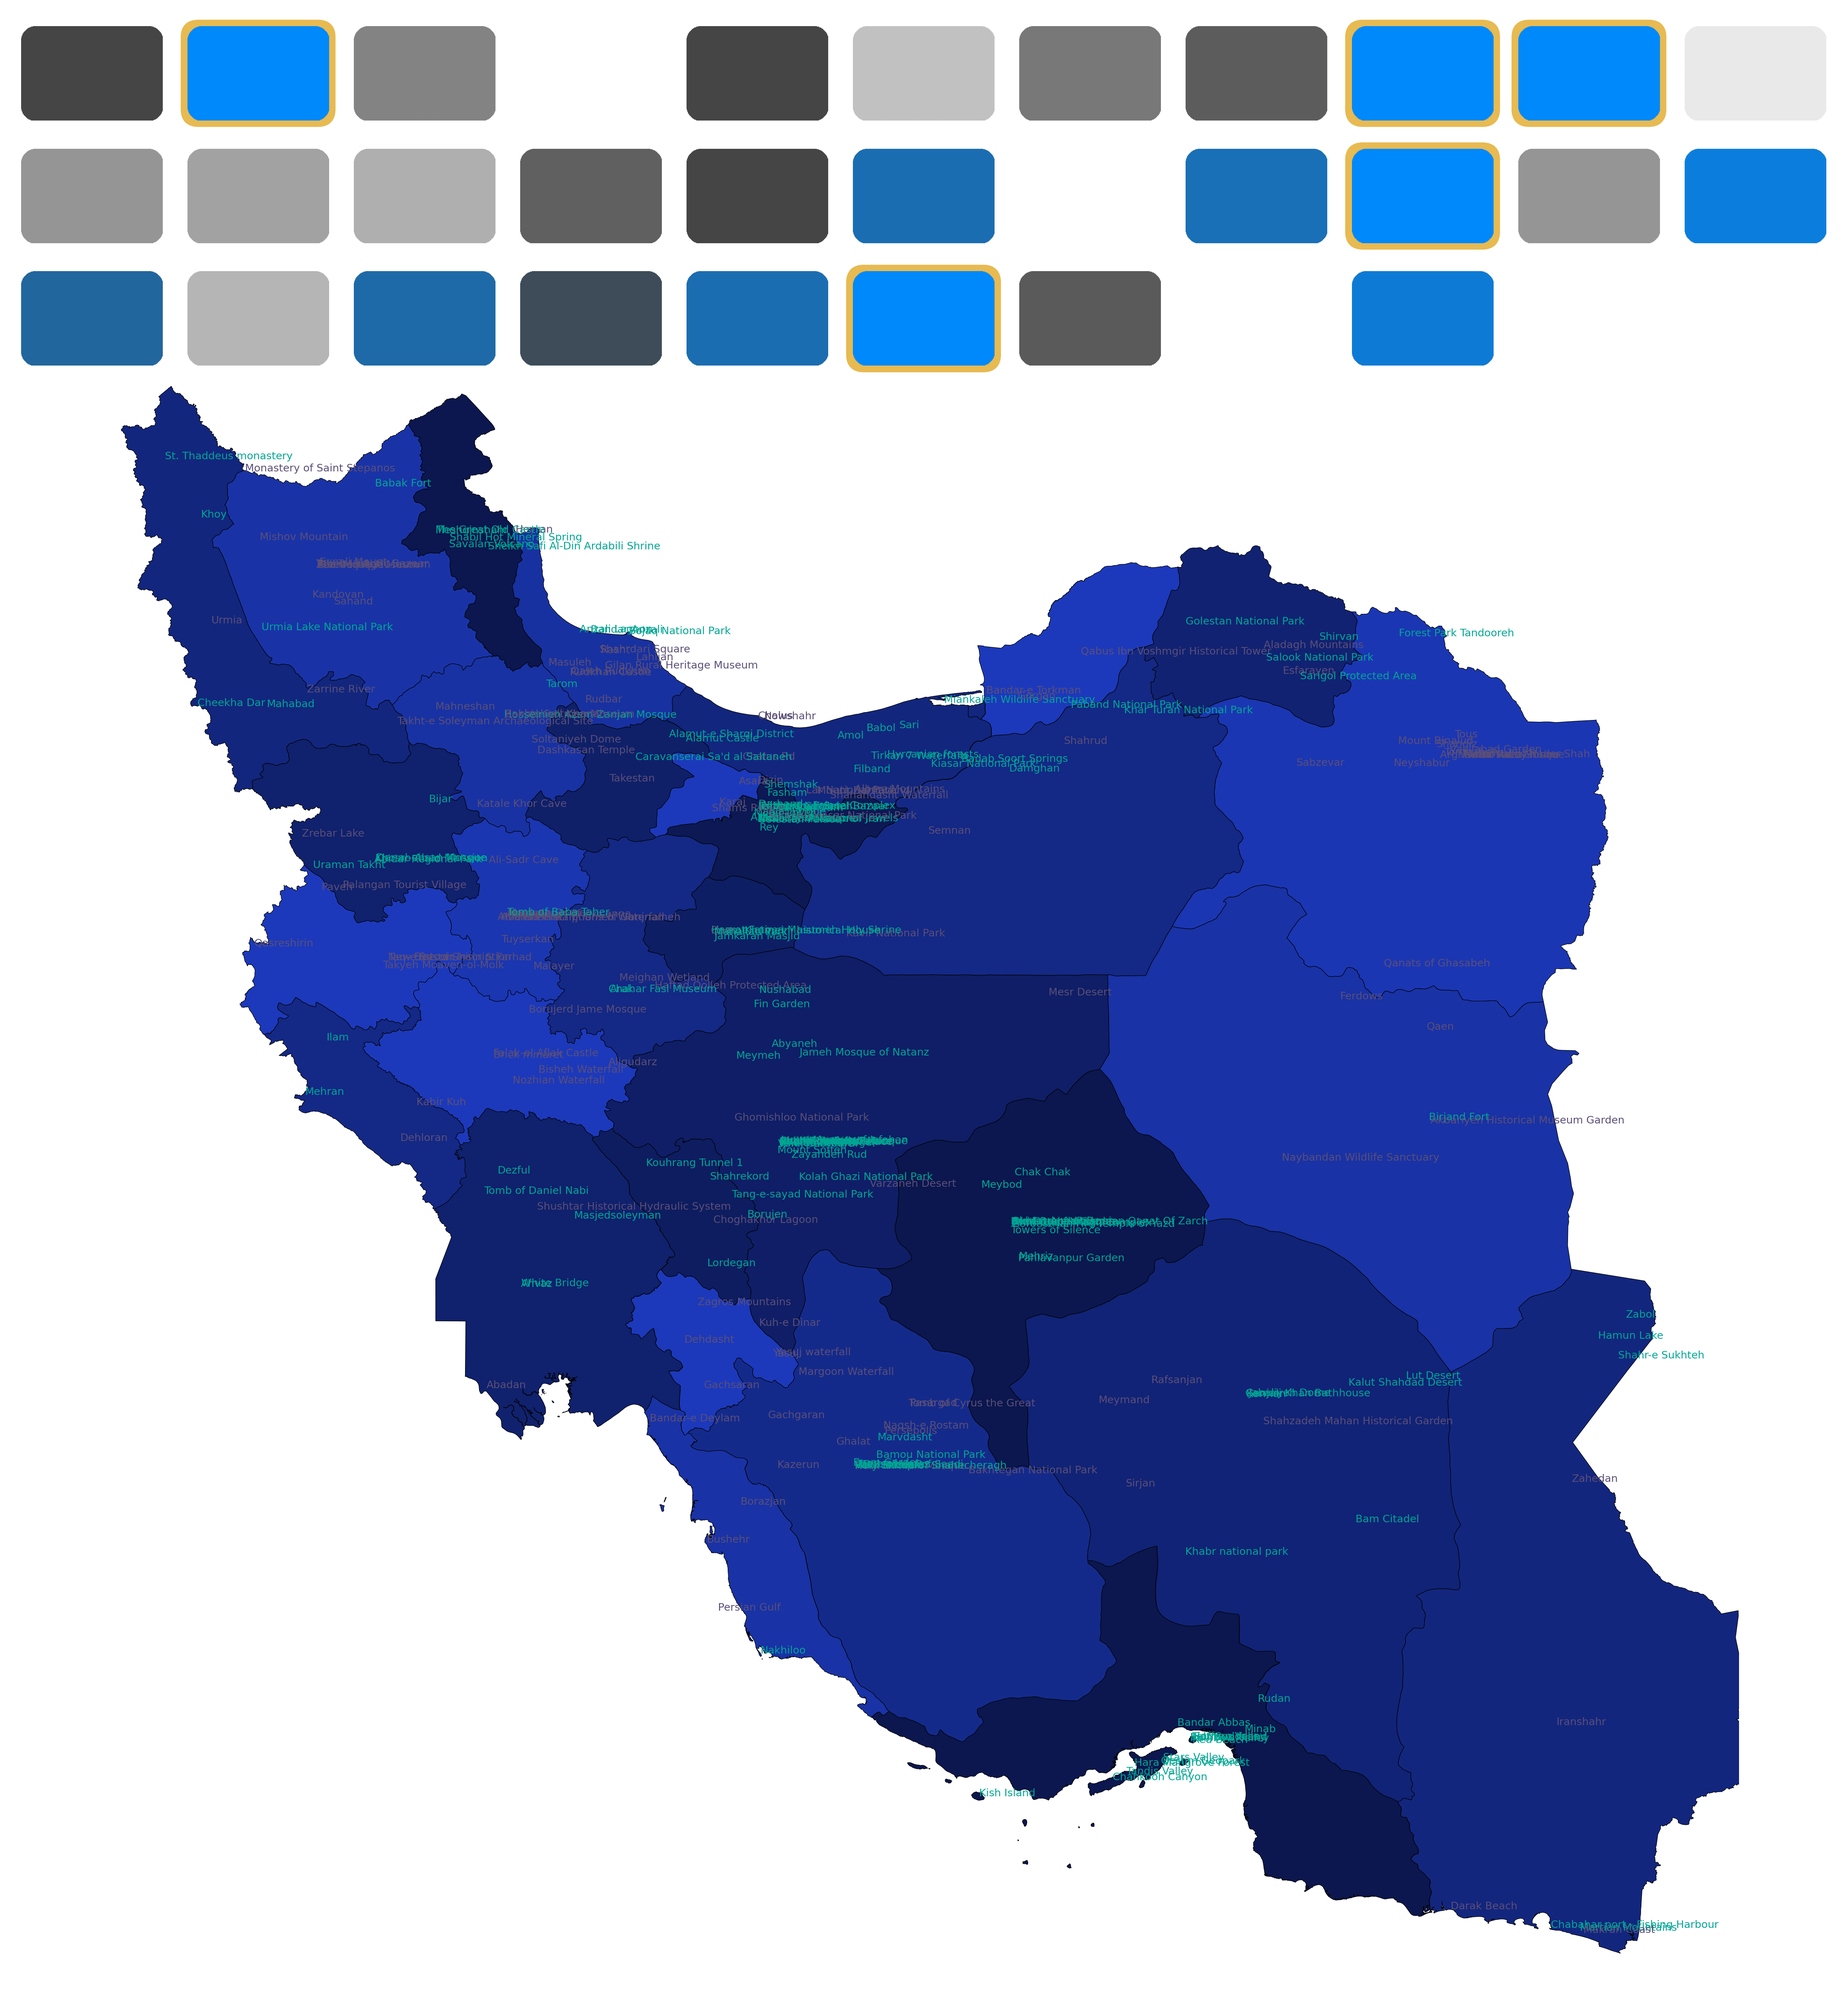
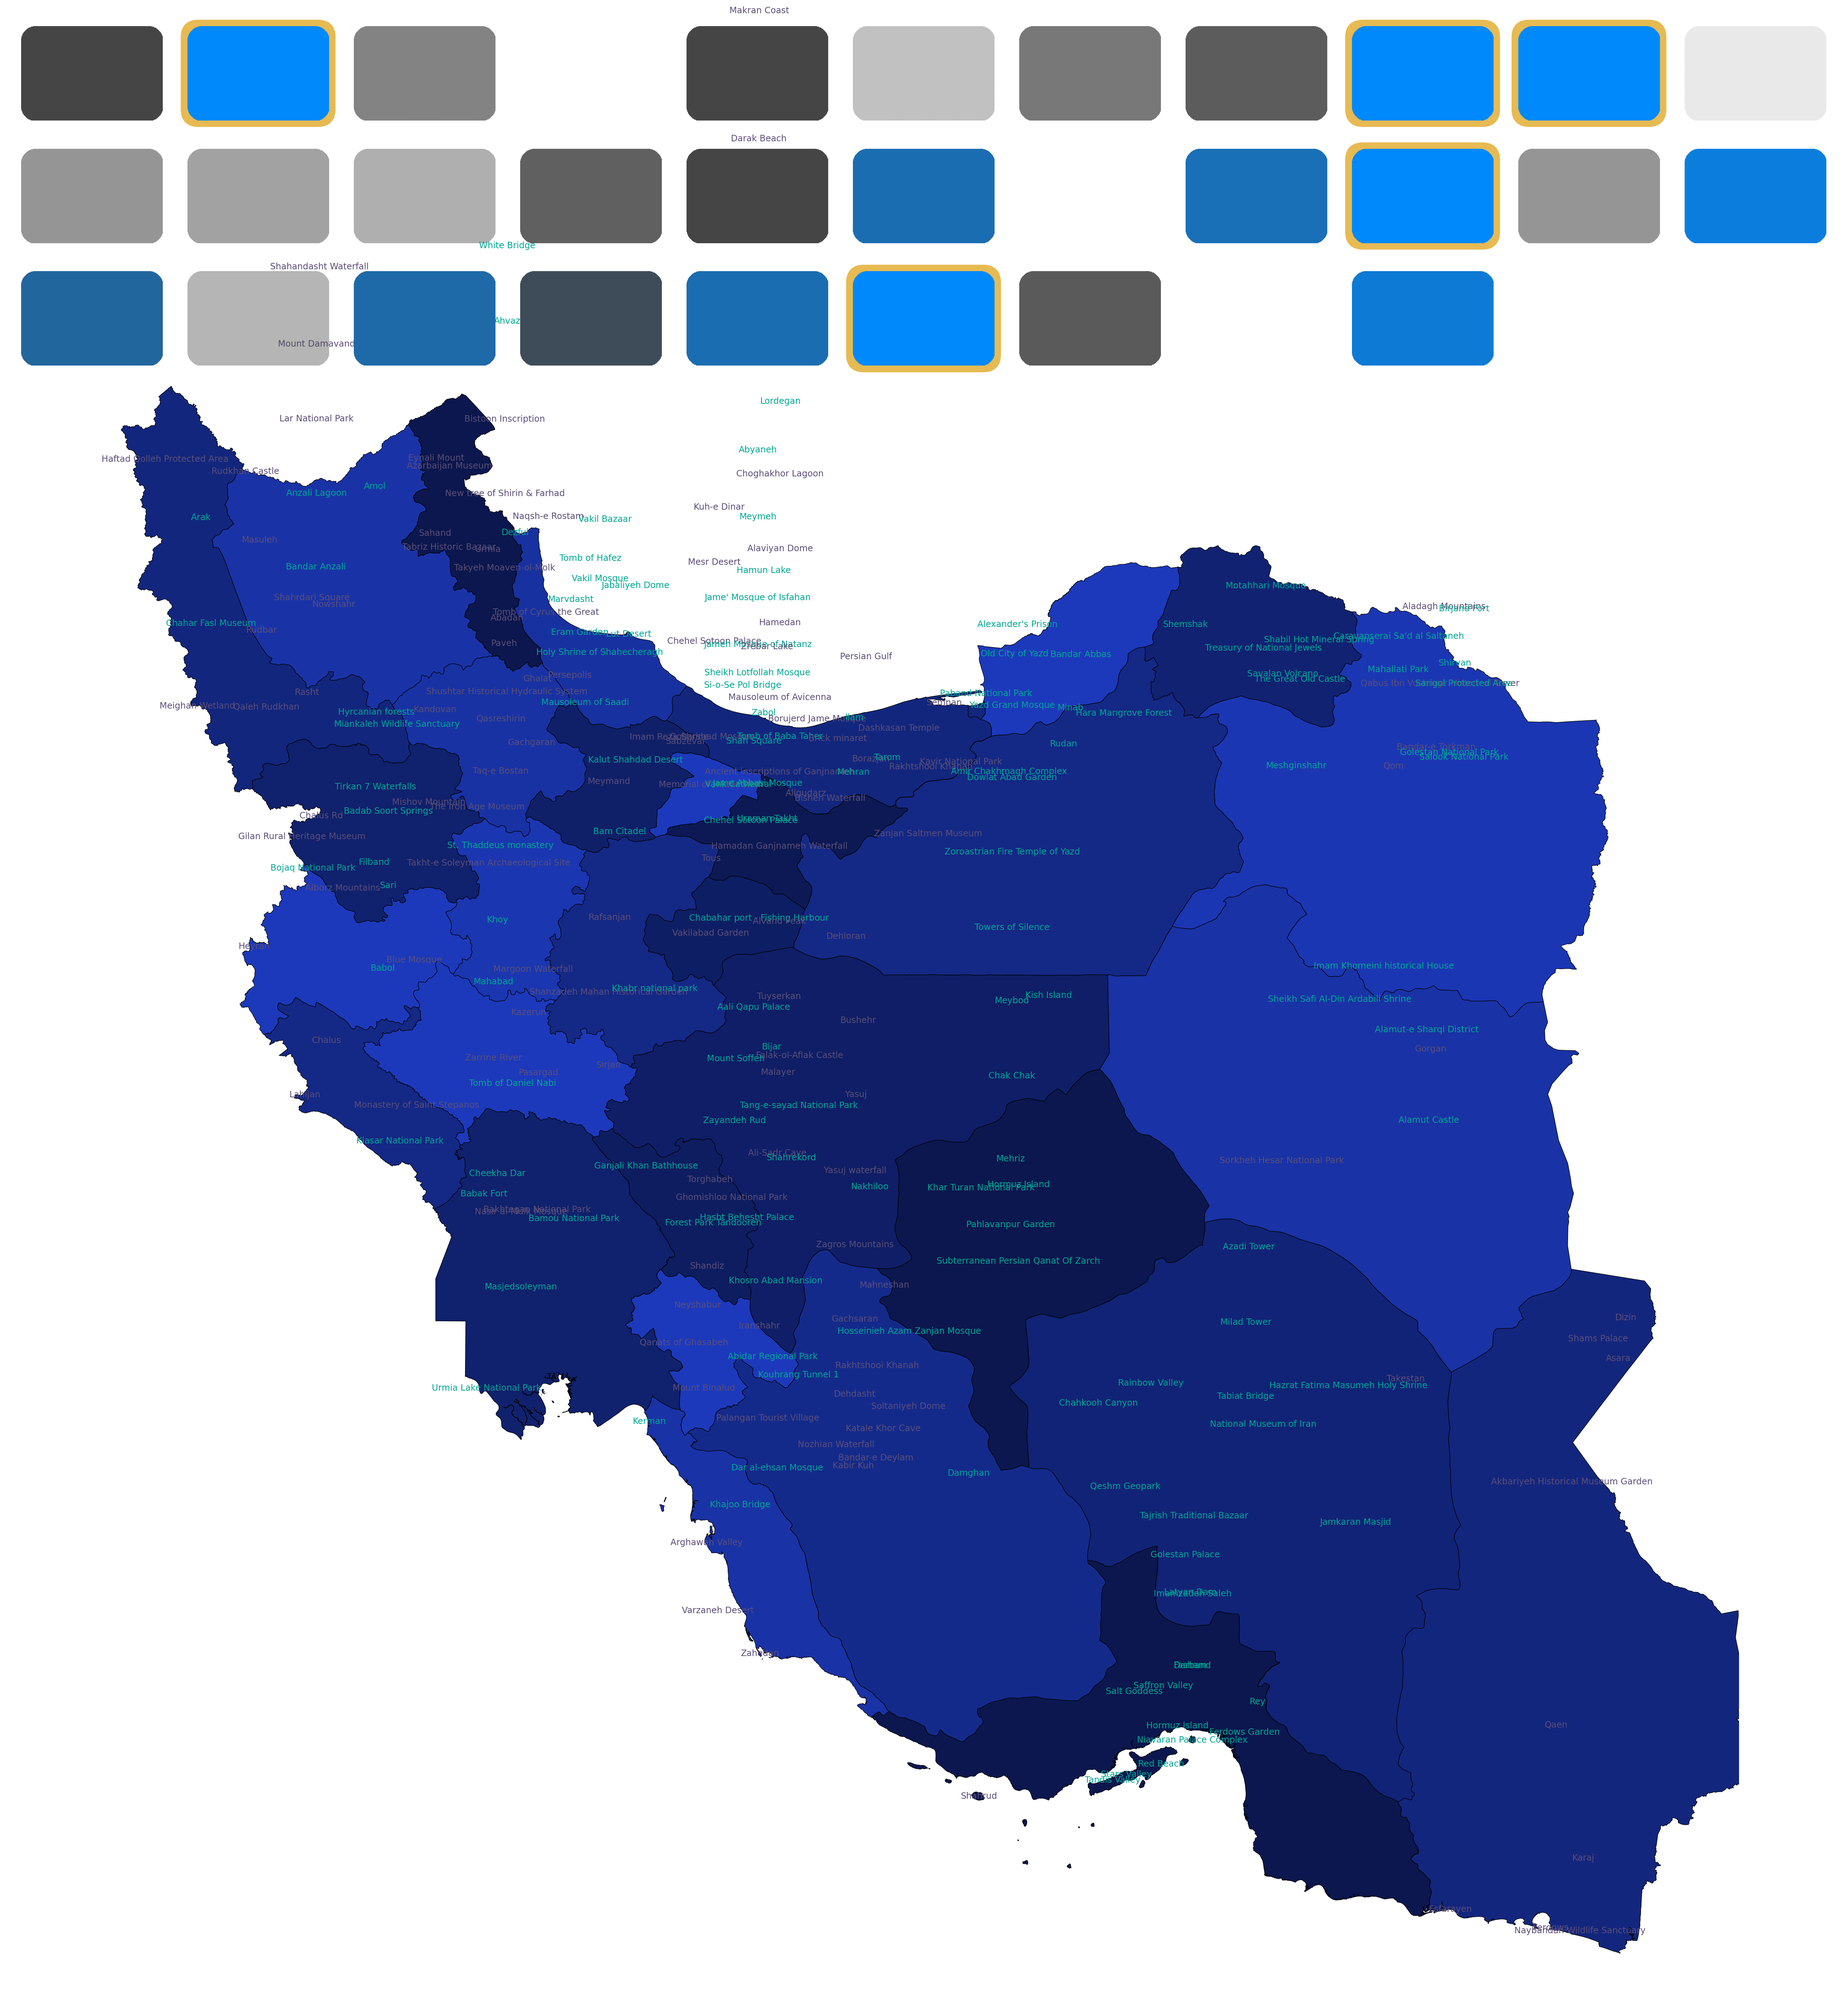
plot initial plot differences

diff --git a/plotting/plotting_helpers.py b/plotting/plotting_helpers.py
@@ -1,10 +1,23 @@
-def plot_location_labels(ax, locations_df, current_date, labels_config, scale, color_unvisited, color_visited, color_active):
-    """
-    Plot labels for each location on the map based on visit status.
-    """
-    row = column = 0
-    for _, location in locations_df.iterrows():
+def plot_location_labels(ax, locations_df, current_date, labels_config, scale, color_unvisited, color_visited, color_active):    
+    #LAT_THRESHOLD = 0.1   # how close in latitude counts as "same row"
+    #MIN_LON_GAP  = 1.0    # minimum longitude separation
+    #SHIFT_STEP   = 0.3    # how much to move when overlap found
+
+    # Sort Locations
+    locations_df_sorted = locations_df.sort_values("latitude", ascending=False)
+
+    adjusted_df = spread_latitudes(
+        locations_df_sorted,
+        lon_threshold=0.15,
+        min_lat_gap=0.25,
+        shift_step=0.7
+    )
+
+    for _, location in adjusted_df:
+
         date = location['date']
+        lon = location["longitude"]
+        lat = location["latitude"]
 
         if date == current_date:
             label_color = color_active
@@ -13,21 +26,38 @@ def plot_location_labels(ax, locations_df, current_date, labels_config, scale, c
         else:
             label_color = color_unvisited
 
-        #pos_x = labels_config["Start Longitude"] + labels_config["Horizontal Spacing"] * column
-        #pos_y = labels_config["Start Latitude"] - labels_config["Vertical Spacing"] * row
-
-        pos_x = location['longitude']
-        pos_y = location['latitude']
-
         ax.text(
-            pos_x,
-            pos_y,
-            location['name'],
+            lon,
+            lat,
+            location["name"],
             fontsize=labels_config["Font"] * scale,
-            color=label_color
+            color=label_color,
+            ha="center",
+            va="center"
         )
 
-        row += 1
-        if row % labels_config["Splits"] == 0:
-            column += 1
-            row = 0
+def spread_latitudes(locations_df, lon_threshold, min_lat_gap, shift_step):
+    adjusted_positions = []
+
+    # Sort so we process nearby longitudes together
+    sorted_df = locations_df.sort_values(by="longitude")
+
+    for _, loc in sorted_df.iterrows():
+        lat = loc["latitude"]
+        lon = loc["longitude"]
+
+        new_lat = lat
+
+        # Compare with already placed points
+        for prev_lon, prev_lat in adjusted_positions:
+
+            # Only care about points in same longitude band
+            if abs(lon - prev_lon) < lon_threshold:
+
+                # If too close vertically → shift upward
+                while abs(new_lat - prev_lat) < min_lat_gap:
+                    new_lat += shift_step
+
+        adjusted_positions.append((lon, new_lat))
+
+    return adjusted_positions

diff --git a/main.py b/main.py
@@ -49,18 +49,18 @@ plot_manager = PlotManager(
 
 # Add first plot
 current_date = points_sorted['date'].min() - datetime.timedelta(days=1)
-plot_manager.generate_plot(current_date, points_sorted.iloc[0], copy=True)
+#plot_manager.generate_plot(current_date, points_sorted.iloc[0], copy=True)
 
 # Plot all dates
 for _, row in points_sorted.iterrows():
     current_date = row['date']
     if pd.notna(current_date) and current_date != old_date:
-        plot_manager.generate_plot(current_date, row)
+        #plot_manager.generate_plot(current_date, row)
         old_date = current_date
 
 # Create Last Plot
 old_date += datetime.timedelta(days=1)
-plot_manager.generate_plot(old_date, row, copy=True)
+plot_manager.generate_plot(old_date, row, copy=False)
 
 # Create gif from produced plots
 gif = GifGenerator(
